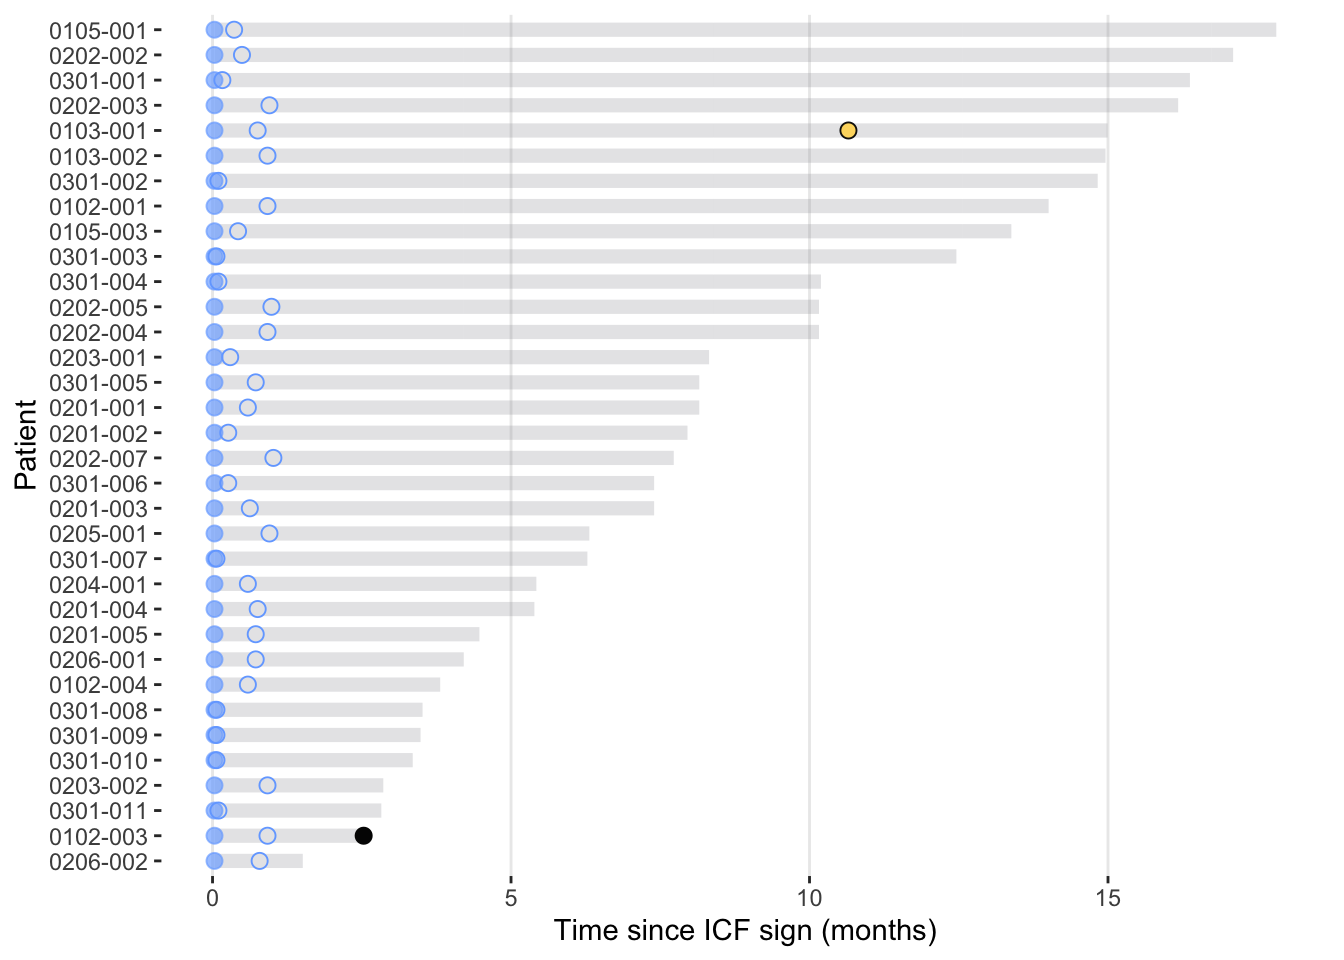
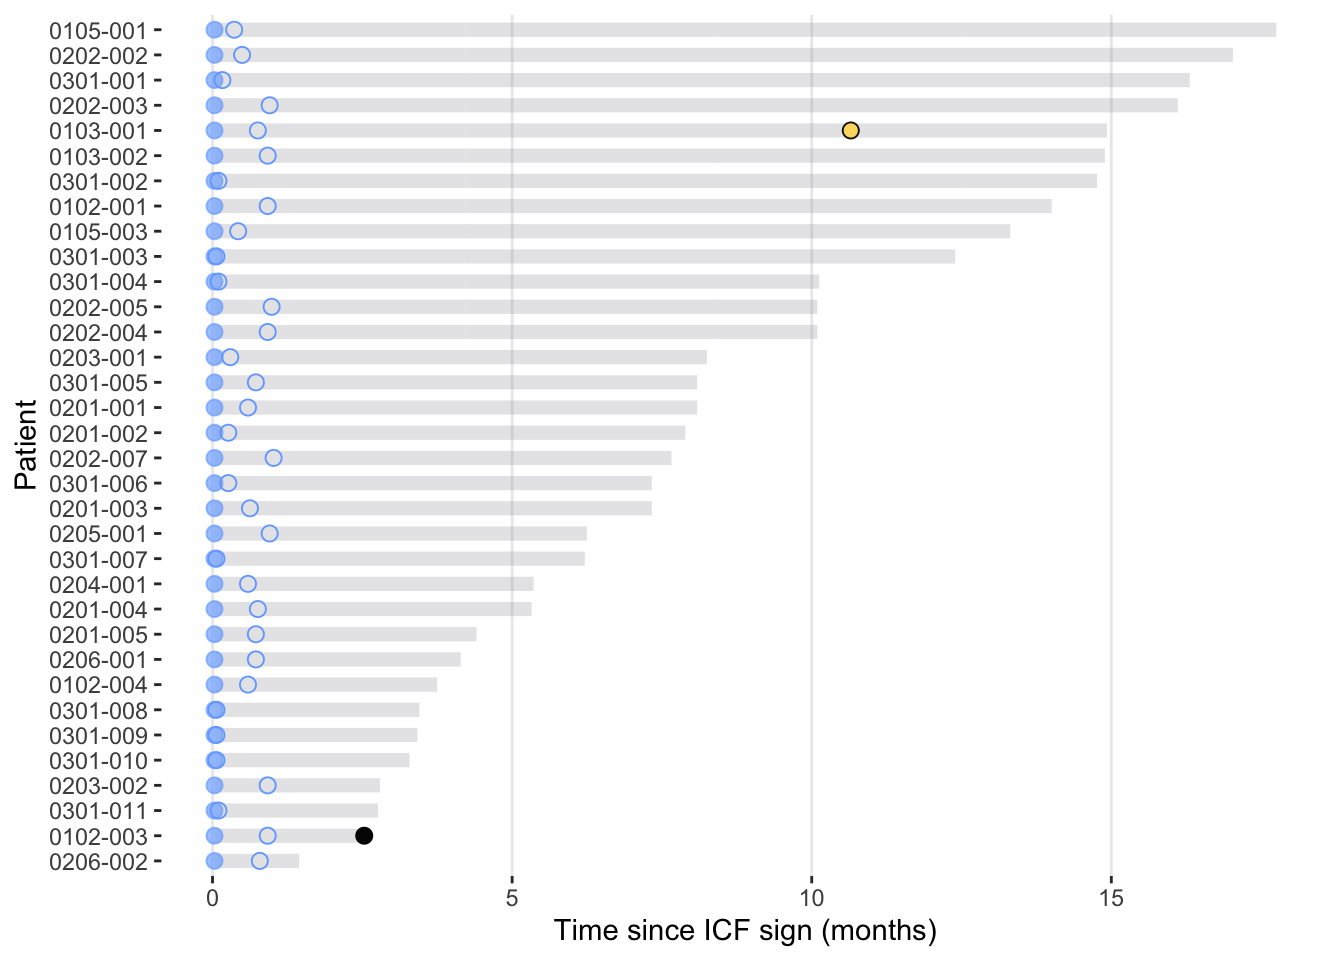
Build site.

Changed region(s): [[0.8125, 0.9062, 0.8438, 0.9375], [0.625, 0.125, 0.6562, 0.1562], [0.5938, 0.9062, 0.625, 0.9375]]

diff --git a/docs/WP1_Preliminary-analysis_2023-10-24.html b/docs/WP1_Preliminary-analysis_2023-10-24.html
@@ -519,15 +519,15 @@ project makes it easier to run your code on other machines.</p>
 <div class="panel panel-default">
 <div class="panel-heading">
 <p class="panel-title">
-<a data-toggle="collapse" data-parent="#workflowr-checks" href="#strongRepositoryversionstrongahrefhttpsgithubcomMedsirScientificPECATItree84b3a249760d6407ed55d311c534ca527d223f25targetblank84b3a24a">
+<a data-toggle="collapse" data-parent="#workflowr-checks" href="#strongRepositoryversionstrongahrefhttpsgithubcomMedsirScientificPECATItree00c22ffd4b7981f4509cf0f79406253c82db307btargetblank00c22ffa">
 <span class="glyphicon glyphicon-ok text-success"
 aria-hidden="true"></span> <strong>Repository version:</strong>
-<a href="https://github.com/MedsirScientific/PECATI/tree/84b3a249760d6407ed55d311c534ca527d223f25" target="_blank">84b3a24</a>
+<a href="https://github.com/MedsirScientific/PECATI/tree/00c22ffd4b7981f4509cf0f79406253c82db307b" target="_blank">00c22ff</a>
 </a>
 </p>
 </div>
 <div
[2 lines of base64/hex data omitted]
 class="panel-collapse collapse">
 <div class="panel-body">
 <p>
@@ -537,7 +537,7 @@ reproducibility.
 </p>
 <p>
 The results in this page were generated with repository version
-<a href="https://github.com/MedsirScientific/PECATI/tree/84b3a249760d6407ed55d311c534ca527d223f25" target="_blank">84b3a24</a>.
+<a href="https://github.com/MedsirScientific/PECATI/tree/00c22ffd4b7981f4509cf0f79406253c82db307b" target="_blank">00c22ff</a>.
 See the <em>Past versions</em> tab to see a history of the changes made
 to the R Markdown and HTML files.
 </p>
@@ -618,6 +618,40 @@ Message
 </tr>
 </thead>
 <tbody>
+<tr>
+<td>
+Rmd
+</td>
+<td>
+<a href="https://github.com/MedsirScientific/PECATI/blob/00c22ffd4b7981f4509cf0f79406253c82db307b/analysis/WP1_Preliminary-analysis_2023-10-24.Rmd" target="_blank">00c22ff</a>
+</td>
+<td>
+Daniel Alcalá
+</td>
+<td>
+2023-10-26
+</td>
+<td>
+Add follow-up time
+</td>
+</tr>
+<tr>
+<td>
+html
+</td>
+<td>
+<a href="https://rawcdn.githack.com/MedsirScientific/PECATI/d14ee5522cf06f2ec80c5f6a2e06d11c3e7c40fe/docs/WP1_Preliminary-analysis_2023-10-24.html" target="_blank">d14ee55</a>
+</td>
+<td>
+Daniel Alcalá
+</td>
+<td>
+2023-10-26
+</td>
+<td>
+Build site.
+</td>
+</tr>
 <tr>
 <td>
 Rmd
@@ -3307,18 +3341,18 @@ registered dose: 2023-10-06).</p>
 <h1>Preliminary Efficacy Analysis</h1>
 <div id="overall-survival" class="section level2">
 <h2>Overall Survival</h2>
-<p>The median (range) follow-up time is: [TO BE ADDED]</p>
+<p>The median (range) follow-up time is: 7.2 months (0.7-17.4)</p>
 <p>Listing of survival data:</p>
 <div data-pagedtable="false">
 <script data-pagedtable-source type="application/json">
-{"columns":[{"label":["Patient"],"name":[1],"type":["chr"],"align":["left"]},{"label":["PFS event (PD or exitus)"],"name":[2],"type":["chr"],"align":["left"]},{"label":["Time to PFS event (months)"],"name":[3],"type":["dbl"],"align":["right"]},{"label":["OS event (exitus)"],"name":[4],"type":["chr"],"align":["left"]},{"label":["Time to OS event (months)"],"name":[5],"type":["dbl"],"align":["right"]}],"data":[{"1":"0102-001","2":"No","3":"13.1","4":"No","5":"13.1"},{"1":"0102-003","2":"No","3":"1.6","4":"Yes","5":"1.6"},{"1":"0102-004","2":"No","3":"3.2","4":"No","5":"3.2"},{"1":"0103-001","2":"Yes","3":"9.9","4":"No","5":"14.2"},{"1":"0103-002","2":"No","3":"14.0","4":"No","5":"14.0"},{"1":"0105-001","2":"No","3":"17.4","4":"No","5":"17.4"},{"1":"0105-003","2":"No","3":"12.9","4":"No","5":"12.9"},{"1":"0201-001","2":"No","3":"7.6","4":"No","5":"7.6"},{"1":"0201-002","2":"No","3":"7.7","4":"No","5":"7.7"},{"1":"0201-003","2":"No","3":"6.8","4":"No","5":"6.8"},{"1":"0201-004","2":"No","3":"4.6","4":"No","5":"4.6"},{"1":"0201-005","2":"No","3":"3.7","4":"No","5":"3.7"},{"1":"0202-002","2":"No","3":"16.6","4":"No","5":"16.6"},{"1":"0202-003","2":"No","3":"15.2","4":"No","5":"15.2"},{"1":"0202-004","2":"No","3":"9.2","4":"No","5":"9.2"},{"1":"0202-005","2":"No","3":"9.2","4":"No","5":"9.2"},{"1":"0202-007","2":"No","3":"6.7","4":"No","5":"6.7"},{"1":"0203-001","2":"No","3":"8.0","4":"No","5":"8.0"},{"1":"0203-002","2":"No","3":"1.9","4":"No","5":"1.9"},{"1":"0204-001","2":"No","3":"4.8","4":"No","5":"4.8"},{"1":"0205-001","2":"No","3":"5.4","4":"No","5":"5.4"},{"1":"0206-001","2":"No","3":"3.5","4":"No","5":"3.5"},{"1":"0206-002","2":"No","3":"0.7","4":"No","5":"0.7"},{"1":"0301-001","2":"No","3":"16.2","4":"No","5":"16.2"},{"1":"0301-002","2":"No","3":"14.7","4":"No","5":"14.7"},{"1":"0301-003","2":"No","3":"12.4","4":"No","5":"12.4"},{"1":"0301-004","2":"No","3":"10.1","4":"No","5":"10.1"},{"1":"0301-005","2":"No","3":"7.4","4":"No","5":"7.4"},{"1":"0301-006","2":"No","3":"7.1","4":"No","5":"7.1"},{"1":"0301-007","2":"No","3":"6.2","4":"No","5":"6.2"},{"1":"0301-008","2":"No","3":"3.4","4":"No","5":"3.4"},{"1":"0301-009","2":"No","3":"3.4","4":"No","5":"3.4"},{"1":"0301-010","2":"No","3":"3.3","4":"No","5":"3.3"},{"1":"0301-011","2":"No","3":"2.7","4":"No","5":"2.7"}],"options":{"columns":{"min":{},"max":[10]},"rows":{"min":[10],"max":[10]},"pages":{}}}
+{"columns":[{"label":["Patient"],"name":[1],"type":["chr"],"align":["left"]},{"label":["PFS event (PD or exitus)"],"name":[2],"type":["chr"],"align":["left"]},{"label":["Time to PFS event (months)"],"name":[3],"type":["dbl"],"align":["right"]},{"label":["OS event (exitus)"],"name":[4],"type":["chr"],"align":["left"]},{"label":["Time to OS event (months)"],"name":[5],"type":["dbl"],"align":["right"]}],"data":[{"1":"0102-001","2":"No","3":"13.1","4":"No","5":"13.1"},{"1":"0102-003","2":"No","3":"1.6","4":"Yes","5":"1.6"},{"1":"0102-004","2":"No","3":"3.2","4":"No","5":"3.2"},{"1":"0103-001","2":"Yes","3":"9.9","4":"No","5":"14.2"},{"1":"0103-002","2":"No","3":"14.0","4":"No","5":"14.0"},{"1":"0105-001","2":"No","3":"17.4","4":"No","5":"17.4"},{"1":"0105-003","2":"No","3":"12.9","4":"No","5":"12.9"},{"1":"0201-001","2":"No","3":"7.5","4":"No","5":"7.5"},{"1":"0201-002","2":"No","3":"7.6","4":"No","5":"7.6"},{"1":"0201-003","2":"No","3":"6.7","4":"No","5":"6.7"},{"1":"0201-004","2":"No","3":"4.6","4":"No","5":"4.6"},{"1":"0201-005","2":"No","3":"3.7","4":"No","5":"3.7"},{"1":"0202-002","2":"No","3":"16.5","4":"No","5":"16.5"},{"1":"0202-003","2":"No","3":"15.1","4":"No","5":"15.1"},{"1":"0202-004","2":"No","3":"9.2","4":"No","5":"9.2"},{"1":"0202-005","2":"No","3":"9.1","4":"No","5":"9.1"},{"1":"0202-007","2":"No","3":"6.6","4":"No","5":"6.6"},{"1":"0203-001","2":"No","3":"8.0","4":"No","5":"8.0"},{"1":"0203-002","2":"No","3":"1.9","4":"No","5":"1.9"},{"1":"0204-001","2":"No","3":"4.8","4":"No","5":"4.8"},{"1":"0205-001","2":"No","3":"5.3","4":"No","5":"5.3"},{"1":"0206-001","2":"No","3":"3.4","4":"No","5":"3.4"},{"1":"0206-002","2":"No","3":"0.7","4":"No","5":"0.7"},{"1":"0301-001","2":"No","3":"16.1","4":"No","5":"16.1"},{"1":"0301-002","2":"No","3":"14.7","4":"No","5":"14.7"},{"1":"0301-003","2":"No","3":"12.3","4":"No","5":"12.3"},{"1":"0301-004","2":"No","3":"10.0","4":"No","5":"10.0"},{"1":"0301-005","2":"No","3":"7.4","4":"No","5":"7.4"},{"1":"0301-006","2":"No","3":"7.1","4":"No","5":"7.1"},{"1":"0301-007","2":"No","3":"6.1","4":"No","5":"6.1"},{"1":"0301-008","2":"No","3":"3.4","4":"No","5":"3.4"},{"1":"0301-009","2":"No","3":"3.4","4":"No","5":"3.4"},{"1":"0301-010","2":"No","3":"3.2","4":"No","5":"3.2"},{"1":"0301-011","2":"No","3":"2.7","4":"No","5":"2.7"}],"options":{"columns":{"min":{},"max":[10]},"rows":{"min":[10],"max":[10]},"pages":{}}}
   </script>
 </div>
 <div id="table-3.-summary-of-os-events" class="section level4">
 <h4><strong>Table 3. Summary of OS events:</strong></h4>
 <div data-pagedtable="false">
 <script data-pagedtable-source type="application/json">
-{"columns":[{"label":["time"],"name":[1],"type":["dbl"],"align":["right"]},{"label":["n.risk"],"name":[2],"type":["dbl"],"align":["right"]},{"label":["n.event"],"name":[3],"type":["dbl"],"align":["right"]},{"label":["n.censor"],"name":[4],"type":["dbl"],"align":["right"]},{"label":["estimate"],"name":[5],"type":["dbl"],"align":["right"]},{"label":["std.error"],"name":[6],"type":["dbl"],"align":["right"]},{"label":["conf.high"],"name":[7],"type":["dbl"],"align":["right"]},{"label":["conf.low"],"name":[8],"type":["dbl"],"align":["right"]}],"data":[{"1":"0.72","2":"34","3":"0","4":"1","5":"1.00","6":"0.00","7":"NA","8":"NA"},{"1":"1.61","2":"33","3":"1","4":"0","5":"0.97","6":"0.03","7":"1","8":"0.8"},{"1":"1.94","2":"32","3":"0","4":"1","5":"0.97","6":"0.03","7":"1","8":"0.8"},{"1":"2.73","2":"31","3":"0","4":"1","5":"0.97","6":"0.03","7":"1","8":"0.8"},{"1":"3.22","2":"30","3":"0","4":"1","5":"0.97","6":"0.03","7":"1","8":"0.8"},{"1":"3.29","2":"29","3":"0","4":"1","5":"0.97","6":"0.03","7":"1","8":"0.8"},{"1":"3.42","2":"28","3":"0","4":"1","5":"0.97","6":"0.03","7":"1","8":"0.8"},{"1":"3.45","2":"27","3":"0","4":"1","5":"0.97","6":"0.03","7":"1","8":"0.8"},{"1":"3.48","2":"26","3":"0","4":"1","5":"0.97","6":"0.03","7":"1","8":"0.8"},{"1":"3.75","2":"25","3":"0","4":"1","5":"0.97","6":"0.03","7":"1","8":"0.8"},{"1":"4.63","2":"24","3":"0","4":"1","5":"0.97","6":"0.03","7":"1","8":"0.8"},{"1":"4.83","2":"23","3":"0","4":"1","5":"0.97","6":"0.03","7":"1","8":"0.8"},{"1":"5.36","2":"22","3":"0","4":"1","5":"0.97","6":"0.03","7":"1","8":"0.8"},{"1":"6.21","2":"21","3":"0","4":"1","5":"0.97","6":"0.03","7":"1","8":"0.8"},{"1":"6.70","2":"20","3":"0","4":"1","5":"0.97","6":"0.03","7":"1","8":"0.8"},{"1":"6.77","2":"19","3":"0","4":"1","5":"0.97","6":"0.03","7":"1","8":"0.8"},{"1":"7.13","2":"18","3":"0","4":"1","5":"0.97","6":"0.03","7":"1","8":"0.8"},{"1":"7.43","2":"17","3":"0","4":"1","5":"0.97","6":"0.03","7":"1","8":"0.8"},{"1":"7.56","2":"16","3":"0","4":"1","5":"0.97","6":"0.03","7":"1","8":"0.8"},{"1":"7.69","2":"15","3":"0","4":"1","5":"0.97","6":"0.03","7":"1","8":"0.8"},{"1":"8.02","2":"14","3":"0","4":"1","5":"0.97","6":"0.03","7":"1","8":"0.8"},{"1":"9.17","2":"13","3":"0","4":"1","5":"0.97","6":"0.03","7":"1","8":"0.8"},{"1":"9.23","2":"12","3":"0","4":"1","5":"0.97","6":"0.03","7":"1","8":"0.8"},{"1":"10.09","2":"11","3":"0","4":"1","5":"0.97","6":"0.03","7":"1","8":"0.8"},{"1":"12.39","2":"10","3":"0","4":"1","5":"0.97","6":"0.03","7":"1","8":"0.8"},{"1":"12.94","2":"9","3":"0","4":"1","5":"0.97","6":"0.03","7":"1","8":"0.8"},{"1":"13.08","2":"8","3":"0","4":"1","5":"0.97","6":"0.03","7":"1","8":"0.8"},{"1":"14.03","2":"7","3":"0","4":"1","5":"0.97","6":"0.03","7":"1","8":"0.8"},{"1":"14.23","2":"6","3":"0","4":"1","5":"0.97","6":"0.03","7":"1","8":"0.8"},{"1":"14.72","2":"5","3":"0","4":"1","5":"0.97","6":"0.03","7":"1","8":"0.8"},{"1":"15.21","2":"4","3":"0","4":"1","5":"0.97","6":"0.03","7":"1","8":"0.8"},{"1":"16.20","2":"3","3":"0","4":"1","5":"0.97","6":"0.03","7":"1","8":"0.8"},{"1":"16.59","2":"2","3":"0","4":"1","5":"0.97","6":"0.03","7":"1","8":"0.8"},{"1":"17.45","2":"1","3":"0","4":"1","5":"0.97","6":"0.03","7":"1","8":"0.8"}],"options":{"columns":{"min":{},"max":[10]},"rows":{"min":[10],"max":[10]},"pages":{}}}
+{"columns":[{"label":["time"],"name":[1],"type":["dbl"],"align":["right"]},{"label":["n.risk"],"name":[2],"type":["dbl"],"align":["right"]},{"label":["n.event"],"name":[3],"type":["dbl"],"align":["right"]},{"label":["n.censor"],"name":[4],"type":["dbl"],"align":["right"]},{"label":["estimate"],"name":[5],"type":["dbl"],"align":["right"]},{"label":["std.error"],"name":[6],"type":["dbl"],"align":["right"]},{"label":["conf.high"],"name":[7],"type":["dbl"],"align":["right"]},{"label":["conf.low"],"name":[8],"type":["dbl"],"align":["right"]}],"data":[{"1":"0.66","2":"34","3":"0","4":"1","5":"1.00","6":"0.00","7":"NA","8":"NA"},{"1":"1.61","2":"33","3":"1","4":"0","5":"0.97","6":"0.03","7":"1","8":"0.8"},{"1":"1.87","2":"32","3":"0","4":"1","5":"0.97","6":"0.03","7":"1","8":"0.8"},{"1":"2.66","2":"31","3":"0","4":"1","5":"0.97","6":"0.03","7":"1","8":"0.8"},{"1":"3.15","2":"30","3":"0","4":"1","5":"0.97","6":"0.03","7":"1","8":"0.8"},{"1":"3.22","2":"29","3":"0","4":"1","5":"0.97","6":"0.03","7":"1","8":"0.8"},{"1":"3.35","2":"28","3":"0","4":"1","5":"0.97","6":"0.03","7":"1","8":"0.8"},{"1":"3.38","2":"27","3":"0","4":"1","5":"0.97","6":"0.03","7":"1","8":"0.8"},{"1":"3.42","2":"26","3":"0","4":"1","5":"0.97","6":"0.03","7":"1","8":"0.8"},{"1":"3.68","2":"25","3":"0","4":"1","5":"0.97","6":"0.03","7":"1","8":"0.8"},{"1":"4.57","2":"24","3":"0","4":"1","5":"0.97","6":"0.03","7":"1","8":"0.8"},{"1":"4.76","2":"23","3":"0","4":"1","5":"0.97","6":"0.03","7":"1","8":"0.8"},{"1":"5.29","2":"22","3":"0","4":"1","5":"0.97","6":"0.03","7":"1","8":"0.8"},{"1":"6.14","2":"21","3":"0","4":"1","5":"0.97","6":"0.03","7":"1","8":"0.8"},{"1":"6.64","2":"20","3":"0","4":"1","5":"0.97","6":"0.03","7":"1","8":"0.8"},{"1":"6.70","2":"19","3":"0","4":"1","5":"0.97","6":"0.03","7":"1","8":"0.8"},{"1":"7.06","2":"18","3":"0","4":"1","5":"0.97","6":"0.03","7":"1","8":"0.8"},{"1":"7.36","2":"17","3":"0","4":"1","5":"0.97","6":"0.03","7":"1","8":"0.8"},{"1":"7.49","2":"16","3":"0","4":"1","5":"0.97","6":"0.03","7":"1","8":"0.8"},{"1":"7.62","2":"15","3":"0","4":"1","5":"0.97","6":"0.03","7":"1","8":"0.8"},{"1":"7.95","2":"14","3":"0","4":"1","5":"0.97","6":"0.03","7":"1","8":"0.8"},{"1":"9.10","2":"13","3":"0","4":"1","5":"0.97","6":"0.03","7":"1","8":"0.8"},{"1":"9.17","2":"12","3":"0","4":"1","5":"0.97","6":"0.03","7":"1","8":"0.8"},{"1":"10.02","2":"11","3":"0","4":"1","5":"0.97","6":"0.03","7":"1","8":"0.8"},{"1":"12.32","2":"10","3":"0","4":"1","5":"0.97","6":"0.03","7":"1","8":"0.8"},{"1":"12.88","2":"9","3":"0","4":"1","5":"0.97","6":"0.03","7":"1","8":"0.8"},{"1":"13.08","2":"8","3":"0","4":"1","5":"0.97","6":"0.03","7":"1","8":"0.8"},{"1":"13.96","2":"7","3":"0","4":"1","5":"0.97","6":"0.03","7":"1","8":"0.8"},{"1":"14.16","2":"6","3":"0","4":"1","5":"0.97","6":"0.03","7":"1","8":"0.8"},{"1":"14.65","2":"5","3":"0","4":"1","5":"0.97","6":"0.03","7":"1","8":"0.8"},{"1":"15.15","2":"4","3":"0","4":"1","5":"0.97","6":"0.03","7":"1","8":"0.8"},{"1":"16.13","2":"3","3":"0","4":"1","5":"0.97","6":"0.03","7":"1","8":"0.8"},{"1":"16.53","2":"2","3":"0","4":"1","5":"0.97","6":"0.03","7":"1","8":"0.8"},{"1":"17.38","2":"1","3":"0","4":"1","5":"0.97","6":"0.03","7":"1","8":"0.8"}],"options":{"columns":{"min":{},"max":[10]},"rows":{"min":[10],"max":[10]},"pages":{}}}
   </script>
 </div>
 </div>
@@ -4291,7 +4325,7 @@ Daniel Alcalá
 <h4><strong>Table 6. Summary of PFS events:</strong></h4>
 <div data-pagedtable="false">
 <script data-pagedtable-source type="application/json">
-{"columns":[{"label":["time"],"name":[1],"type":["dbl"],"align":["right"]},{"label":["n.risk"],"name":[2],"type":["dbl"],"align":["right"]},{"label":["n.event"],"name":[3],"type":["dbl"],"align":["right"]},{"label":["n.censor"],"name":[4],"type":["dbl"],"align":["right"]},{"label":["estimate"],"name":[5],"type":["dbl"],"align":["right"]},{"label":["std.error"],"name":[6],"type":["dbl"],"align":["right"]},{"label":["conf.high"],"name":[7],"type":["dbl"],"align":["right"]},{"label":["conf.low"],"name":[8],"type":["dbl"],"align":["right"]}],"data":[{"1":"0.72","2":"34","3":"0","4":"1","5":"1.00","6":"0.0","7":"NA","8":"NA"},{"1":"1.61","2":"33","3":"0","4":"1","5":"1.00","6":"0.0","7":"NA","8":"NA"},{"1":"1.94","2":"32","3":"0","4":"1","5":"1.00","6":"0.0","7":"NA","8":"NA"},{"1":"2.73","2":"31","3":"0","4":"1","5":"1.00","6":"0.0","7":"NA","8":"NA"},{"1":"3.22","2":"30","3":"0","4":"1","5":"1.00","6":"0.0","7":"NA","8":"NA"},{"1":"3.29","2":"29","3":"0","4":"1","5":"1.00","6":"0.0","7":"NA","8":"NA"},{"1":"3.42","2":"28","3":"0","4":"1","5":"1.00","6":"0.0","7":"NA","8":"NA"},{"1":"3.45","2":"27","3":"0","4":"1","5":"1.00","6":"0.0","7":"NA","8":"NA"},{"1":"3.48","2":"26","3":"0","4":"1","5":"1.00","6":"0.0","7":"NA","8":"NA"},{"1":"3.75","2":"25","3":"0","4":"1","5":"1.00","6":"0.0","7":"NA","8":"NA"},{"1":"4.63","2":"24","3":"0","4":"1","5":"1.00","6":"0.0","7":"NA","8":"NA"},{"1":"4.83","2":"23","3":"0","4":"1","5":"1.00","6":"0.0","7":"NA","8":"NA"},{"1":"5.36","2":"22","3":"0","4":"1","5":"1.00","6":"0.0","7":"NA","8":"NA"},{"1":"6.21","2":"21","3":"0","4":"1","5":"1.00","6":"0.0","7":"NA","8":"NA"},{"1":"6.70","2":"20","3":"0","4":"1","5":"1.00","6":"0.0","7":"NA","8":"NA"},{"1":"6.77","2":"19","3":"0","4":"1","5":"1.00","6":"0.0","7":"NA","8":"NA"},{"1":"7.13","2":"18","3":"0","4":"1","5":"1.00","6":"0.0","7":"NA","8":"NA"},{"1":"7.43","2":"17","3":"0","4":"1","5":"1.00","6":"0.0","7":"NA","8":"NA"},{"1":"7.56","2":"16","3":"0","4":"1","5":"1.00","6":"0.0","7":"NA","8":"NA"},{"1":"7.69","2":"15","3":"0","4":"1","5":"1.00","6":"0.0","7":"NA","8":"NA"},{"1":"8.02","2":"14","3":"0","4":"1","5":"1.00","6":"0.0","7":"NA","8":"NA"},{"1":"9.17","2":"13","3":"0","4":"1","5":"1.00","6":"0.0","7":"NA","8":"NA"},{"1":"9.23","2":"12","3":"0","4":"1","5":"1.00","6":"0.0","7":"NA","8":"NA"},{"1":"9.89","2":"11","3":"1","4":"0","5":"0.91","6":"0.1","7":"0.99","8":"0.51"},{"1":"10.09","2":"10","3":"0","4":"1","5":"0.91","6":"0.1","7":"0.99","8":"0.51"},{"1":"12.39","2":"9","3":"0","4":"1","5":"0.91","6":"0.1","7":"0.99","8":"0.51"},{"1":"12.94","2":"8","3":"0","4":"1","5":"0.91","6":"0.1","7":"0.99","8":"0.51"},{"1":"13.08","2":"7","3":"0","4":"1","5":"0.91","6":"0.1","7":"0.99","8":"0.51"},{"1":"14.03","2":"6","3":"0","4":"1","5":"0.91","6":"0.1","7":"0.99","8":"0.51"},{"1":"14.72","2":"5","3":"0","4":"1","5":"0.91","6":"0.1","7":"0.99","8":"0.51"},{"1":"15.21","2":"4","3":"0","4":"1","5":"0.91","6":"0.1","7":"0.99","8":"0.51"},{"1":"16.20","2":"3","3":"0","4":"1","5":"0.91","6":"0.1","7":"0.99","8":"0.51"},{"1":"16.59","2":"2","3":"0","4":"1","5":"0.91","6":"0.1","7":"0.99","8":"0.51"},{"1":"17.45","2":"1","3":"0","4":"1","5":"0.91","6":"0.1","7":"0.99","8":"0.51"}],"options":{"columns":{"min":{},"max":[10]},"rows":{"min":[10],"max":[10]},"pages":{}}}
+{"columns":[{"label":["time"],"name":[1],"type":["dbl"],"align":["right"]},{"label":["n.risk"],"name":[2],"type":["dbl"],"align":["right"]},{"label":["n.event"],"name":[3],"type":["dbl"],"align":["right"]},{"label":["n.censor"],"name":[4],"type":["dbl"],"align":["right"]},{"label":["estimate"],"name":[5],"type":["dbl"],"align":["right"]},{"label":["std.error"],"name":[6],"type":["dbl"],"align":["right"]},{"label":["conf.high"],"name":[7],"type":["dbl"],"align":["right"]},{"label":["conf.low"],"name":[8],"type":["dbl"],"align":["right"]}],"data":[{"1":"0.66","2":"34","3":"0","4":"1","5":"1.00","6":"0.0","7":"NA","8":"NA"},{"1":"1.61","2":"33","3":"0","4":"1","5":"1.00","6":"0.0","7":"NA","8":"NA"},{"1":"1.87","2":"32","3":"0","4":"1","5":"1.00","6":"0.0","7":"NA","8":"NA"},{"1":"2.66","2":"31","3":"0","4":"1","5":"1.00","6":"0.0","7":"NA","8":"NA"},{"1":"3.15","2":"30","3":"0","4":"1","5":"1.00","6":"0.0","7":"NA","8":"NA"},{"1":"3.22","2":"29","3":"0","4":"1","5":"1.00","6":"0.0","7":"NA","8":"NA"},{"1":"3.35","2":"28","3":"0","4":"1","5":"1.00","6":"0.0","7":"NA","8":"NA"},{"1":"3.38","2":"27","3":"0","4":"1","5":"1.00","6":"0.0","7":"NA","8":"NA"},{"1":"3.42","2":"26","3":"0","4":"1","5":"1.00","6":"0.0","7":"NA","8":"NA"},{"1":"3.68","2":"25","3":"0","4":"1","5":"1.00","6":"0.0","7":"NA","8":"NA"},{"1":"4.57","2":"24","3":"0","4":"1","5":"1.00","6":"0.0","7":"NA","8":"NA"},{"1":"4.76","2":"23","3":"0","4":"1","5":"1.00","6":"0.0","7":"NA","8":"NA"},{"1":"5.29","2":"22","3":"0","4":"1","5":"1.00","6":"0.0","7":"NA","8":"NA"},{"1":"6.14","2":"21","3":"0","4":"1","5":"1.00","6":"0.0","7":"NA","8":"NA"},{"1":"6.64","2":"20","3":"0","4":"1","5":"1.00","6":"0.0","7":"NA","8":"NA"},{"1":"6.70","2":"19","3":"0","4":"1","5":"1.00","6":"0.0","7":"NA","8":"NA"},{"1":"7.06","2":"18","3":"0","4":"1","5":"1.00","6":"0.0","7":"NA","8":"NA"},{"1":"7.36","2":"17","3":"0","4":"1","5":"1.00","6":"0.0","7":"NA","8":"NA"},{"1":"7.49","2":"16","3":"0","4":"1","5":"1.00","6":"0.0","7":"NA","8":"NA"},{"1":"7.62","2":"15","3":"0","4":"1","5":"1.00","6":"0.0","7":"NA","8":"NA"},{"1":"7.95","2":"14","3":"0","4":"1","5":"1.00","6":"0.0","7":"NA","8":"NA"},{"1":"9.10","2":"13","3":"0","4":"1","5":"1.00","6":"0.0","7":"NA","8":"NA"},{"1":"9.17","2":"12","3":"0","4":"1","5":"1.00","6":"0.0","7":"NA","8":"NA"},{"1":"9.89","2":"11","3":"1","4":"0","5":"0.91","6":"0.1","7":"0.99","8":"0.51"},{"1":"10.02","2":"10","3":"0","4":"1","5":"0.91","6":"0.1","7":"0.99","8":"0.51"},{"1":"12.32","2":"9","3":"0","4":"1","5":"0.91","6":"0.1","7":"0.99","8":"0.51"},{"1":"12.88","2":"8","3":"0","4":"1","5":"0.91","6":"0.1","7":"0.99","8":"0.51"},{"1":"13.08","2":"7","3":"0","4":"1","5":"0.91","6":"0.1","7":"0.99","8":"0.51"},{"1":"13.96","2":"6","3":"0","4":"1","5":"0.91","6":"0.1","7":"0.99","8":"0.51"},{"1":"14.65","2":"5","3":"0","4":"1","5":"0.91","6":"0.1","7":"0.99","8":"0.51"},{"1":"15.15","2":"4","3":"0","4":"1","5":"0.91","6":"0.1","7":"0.99","8":"0.51"},{"1":"16.13","2":"3","3":"0","4":"1","5":"0.91","6":"0.1","7":"0.99","8":"0.51"},{"1":"16.53","2":"2","3":"0","4":"1","5":"0.91","6":"0.1","7":"0.99","8":"0.51"},{"1":"17.38","2":"1","3":"0","4":"1","5":"0.91","6":"0.1","7":"0.99","8":"0.51"}],"options":{"columns":{"min":{},"max":[10]},"rows":{"min":[10],"max":[10]},"pages":{}}}
   </script>
 </div>
 </div>
